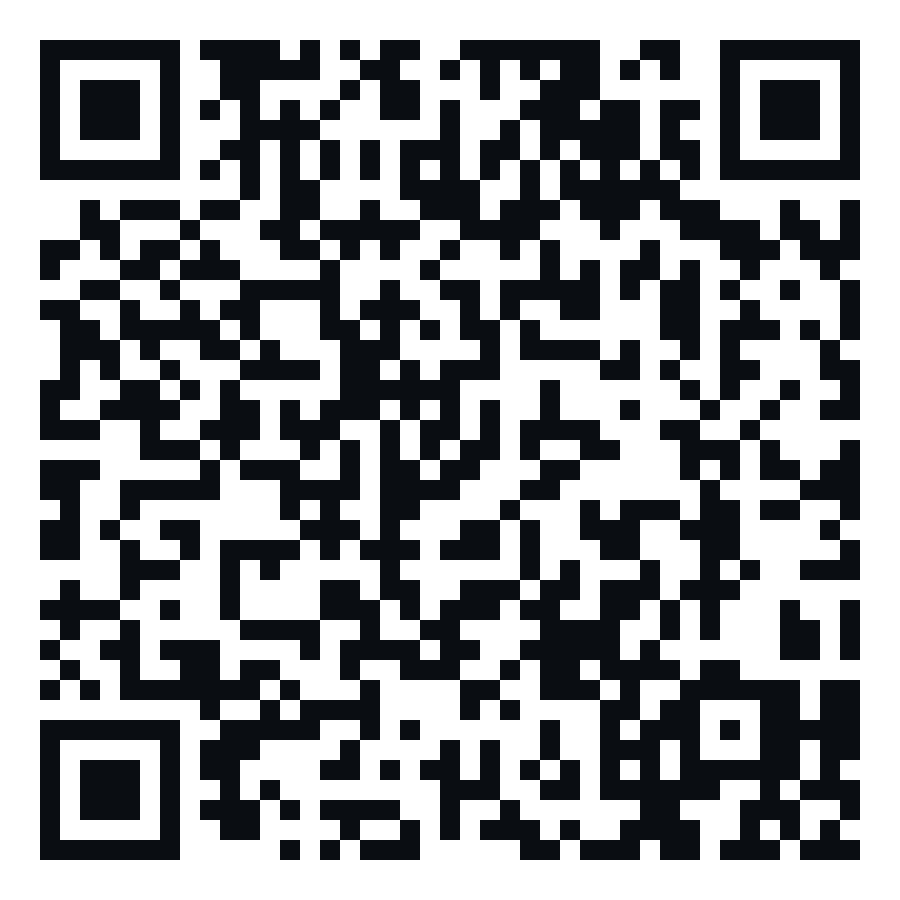
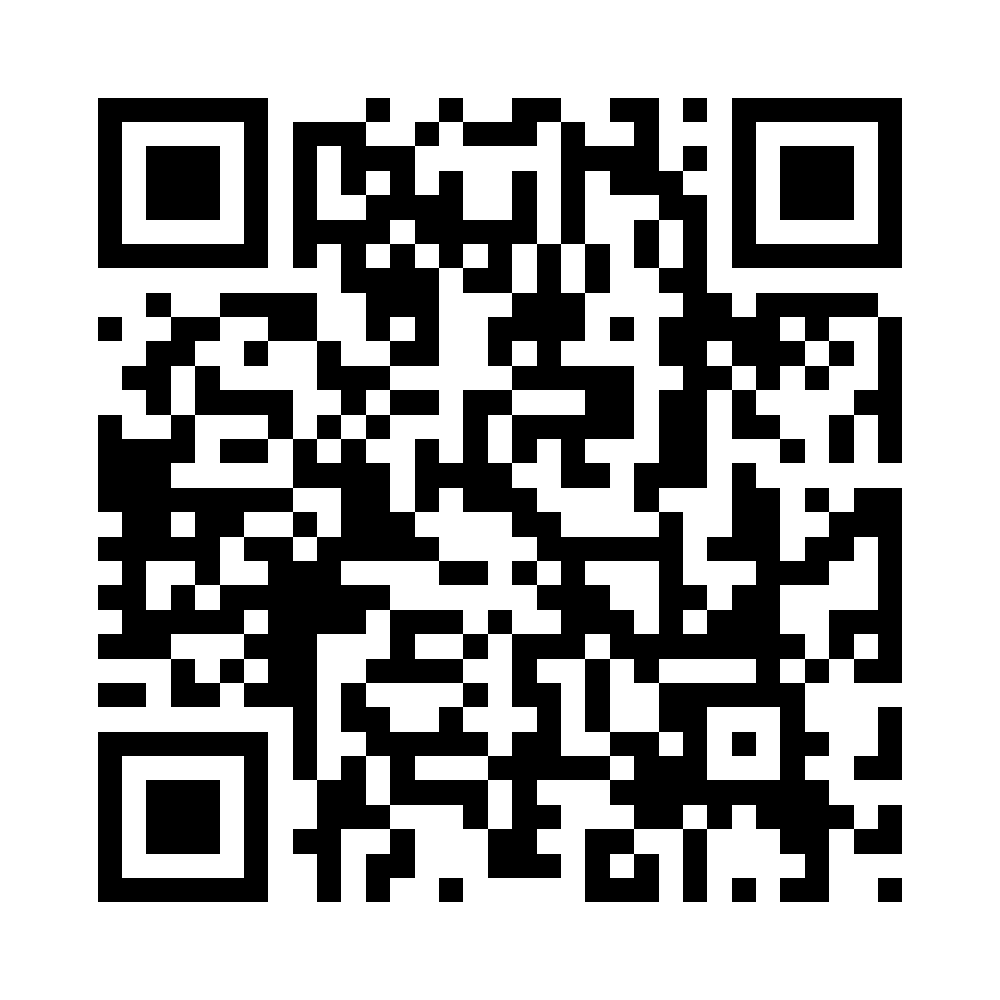
feat(phase7p): the feedback site's real items and the new QR codes
16 section 2zm items 6 and 7.

The item cards are the eleven real items, each with its category as the small
label, and "More than one item" is kept last. The filter bar carries the real
categories: Burgers, Sandwiches, Lemonades, Shawarma, Fruit. The field names,
the form name, the honeypot and the script are untouched, so the submissions
Netlify already holds keep the same shape.

Both QR images are regenerated for https://biteandpour.netlify.app/ with
error correction H and a quiet zone of 4: the plain one at 1000 px, and the
1200 x 1500 card with "BITE & POUR" above the code and "Scan to review us"
under it, black on white. Each was decoded back with OpenCV and equals the URL
exactly -- a card nobody can scan is worse than no card, so this is checked
rather than assumed.

feedback-site/README.md names the new URL.

Also: the two posters Rehman added are committed; START_SENSITIVITY=LOW is
documented in backend/.env.example, which the 7o-b ruling allows this agent to
edit; and the four test files that carried a line-ending-only difference are
restored with git checkout -- git diff --numstat reported no content change
for any of them.

diff --git a/feedback-site/netlify-deploy/index.html b/feedback-site/netlify-deploy/index.html
@@ -119,21 +119,12 @@
           <button type="button" class="cat-btn on" data-cat="all">All Items</button>
           <button type="button" class="cat-btn" data-cat="burgers">Burgers</button>
           <button type="button" class="cat-btn" data-cat="sandwiches">Sandwiches</button>
-          <button type="button" class="cat-btn" data-cat="fries">Fries</button>
-          <button type="button" class="cat-btn" data-cat="drinks">Drinks</button>
+          <button type="button" class="cat-btn" data-cat="lemonades">Lemonades</button>
+          <button type="button" class="cat-btn" data-cat="shawarma">Shawarma</button>
+          <button type="button" class="cat-btn" data-cat="fruit">Fruit</button>
         </div>
 
         <div class="product-grid" role="radiogroup" aria-label="Select menu item">
-
-          <label class="pchip" data-cat="burgers">
-            <input type="radio" name="item" value="Fire Burger">
-            <div class="picon"><span class="picon-emoji">🍔</span></div>
-            <div class="pinfo">
-              <div class="pname">Fire Burger</div>
-              <div class="pcat">Burgers</div>
-            </div>
-            <div class="pcheck">✓</div>
-          </label>
 
           <label class="pchip" data-cat="burgers">
             <input type="radio" name="item" value="Patty Burger">
@@ -145,72 +136,102 @@
             <div class="pcheck">✓</div>
           </label>
 
+          <label class="pchip" data-cat="burgers">
+            <input type="radio" name="item" value="Zinger Burger">
+            <div class="picon"><span class="picon-emoji">🍔</span></div>
+            <div class="pinfo">
+              <div class="pname">Zinger Burger</div>
+              <div class="pcat">Burgers</div>
+            </div>
+            <div class="pcheck">✓</div>
+          </label>
+
+          <label class="pchip" data-cat="burgers">
+            <input type="radio" name="item" value="Fire Burger">
+            <div class="picon"><span class="picon-emoji">🔥</span></div>
+            <div class="pinfo">
+              <div class="pname">Fire Burger</div>
+              <div class="pcat">Burgers</div>
+            </div>
+            <div class="pcheck">✓</div>
+          </label>
+
           <label class="pchip" data-cat="sandwiches">
-            <input type="radio" name="item" value="Chicken Sandwich">
+            <input type="radio" name="item" value="Regular Sandwich">
             <div class="picon"><span class="picon-emoji">🥪</span></div>
             <div class="pinfo">
-              <div class="pname">Chicken Sandwich</div>
+              <div class="pname">Regular Sandwich</div>
               <div class="pcat">Sandwiches</div>
             </div>
             <div class="pcheck">✓</div>
           </label>
 
           <label class="pchip" data-cat="sandwiches">
-            <input type="radio" name="item" value="Club Sandwich">
+            <input type="radio" name="item" value="Special Sandwich">
             <div class="picon"><span class="picon-emoji">🥖</span></div>
             <div class="pinfo">
-              <div class="pname">Club Sandwich</div>
+              <div class="pname">Special Sandwich</div>
               <div class="pcat">Sandwiches</div>
             </div>
             <div class="pcheck">✓</div>
           </label>
 
-          <label class="pchip" data-cat="fries">
-            <input type="radio" name="item" value="Fries">
-            <div class="picon"><span class="picon-emoji">🍟</span></div>
+          <label class="pchip" data-cat="lemonades">
+            <input type="radio" name="item" value="Classic Lemon Lemonade">
+            <div class="picon"><span class="picon-emoji">🍋</span></div>
             <div class="pinfo">
-              <div class="pname">Fries</div>
-              <div class="pcat">Fries</div>
+              <div class="pname">Classic Lemon Lemonade</div>
+              <div class="pcat">Lemonades</div>
             </div>
             <div class="pcheck">✓</div>
           </label>
 
-          <label class="pchip" data-cat="drinks">
-            <input type="radio" name="item" value="Mixed Fruit Milkshake">
-            <div class="picon"><span class="picon-emoji">🥤</span></div>
-            <div class="pinfo">
-              <div class="pname">Mixed Fruit Milkshake</div>
-              <div class="pcat">Drinks</div>
-            </div>
-            <div class="pcheck">✓</div>
-          </label>
-
-          <label class="pchip" data-cat="drinks">
+          <label class="pchip" data-cat="lemonades">
             <input type="radio" name="item" value="Mint Lemonade">
             <div class="picon"><span class="picon-emoji">🍃</span></div>
             <div class="pinfo">
               <div class="pname">Mint Lemonade</div>
-              <div class="pcat">Drinks</div>
+              <div class="pcat">Lemonades</div>
             </div>
             <div class="pcheck">✓</div>
           </label>
 
-          <label class="pchip" data-cat="drinks">
-            <input type="radio" name="item" value="Blue Lemonade">
-            <div class="picon"><span class="picon-emoji">🫐</span></div>
-            <div class="pinfo">
-              <div class="pname">Blue Lemonade</div>
-              <div class="pcat">Drinks</div>
-            </div>
-            <div class="pcheck">✓</div>
-          </label>
-
-          <label class="pchip" data-cat="drinks">
+          <label class="pchip" data-cat="lemonades">
             <input type="radio" name="item" value="Strawberry Lemonade">
             <div class="picon"><span class="picon-emoji">🍓</span></div>
             <div class="pinfo">
               <div class="pname">Strawberry Lemonade</div>
-              <div class="pcat">Drinks</div>
+              <div class="pcat">Lemonades</div>
+            </div>
+            <div class="pcheck">✓</div>
+          </label>
+
+          <label class="pchip" data-cat="lemonades">
+            <input type="radio" name="item" value="Blue Citrus Lemonade">
+            <div class="picon"><span class="picon-emoji">🫐</span></div>
+            <div class="pinfo">
+              <div class="pname">Blue Citrus Lemonade</div>
+              <div class="pcat">Lemonades</div>
+            </div>
+            <div class="pcheck">✓</div>
+          </label>
+
+          <label class="pchip" data-cat="shawarma">
+            <input type="radio" name="item" value="Zinger Shawarma">
+            <div class="picon"><span class="picon-emoji">🌯</span></div>
+            <div class="pinfo">
+              <div class="pname">Zinger Shawarma</div>
+              <div class="pcat">Shawarma</div>
+            </div>
+            <div class="pcheck">✓</div>
+          </label>
+
+          <label class="pchip" data-cat="fruit">
+            <input type="radio" name="item" value="Mix Fruit Cup">
+            <div class="picon"><span class="picon-emoji">🍇</span></div>
+            <div class="pinfo">
+              <div class="pname">Mix Fruit Cup</div>
+              <div class="pcat">Fruit</div>
             </div>
             <div class="pcheck">✓</div>
           </label>

diff --git a/feedback-site/README.md b/feedback-site/README.md
@@ -4,7 +4,7 @@ The form guests open by scanning the QR code at the stall. It is a static page
 hosted on Netlify; THE HOST reads the submissions back through the Netlify API
 and shows them on the dashboard's **Feedback** page.
 
-Live at: <https://imaginative-taiyaki-542a7a.netlify.app/>
+Live at: <https://biteandpour.netlify.app/>
 
 ## What is in here
 
